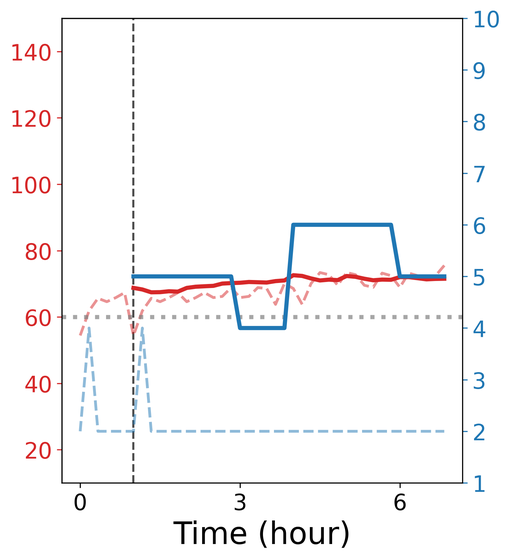
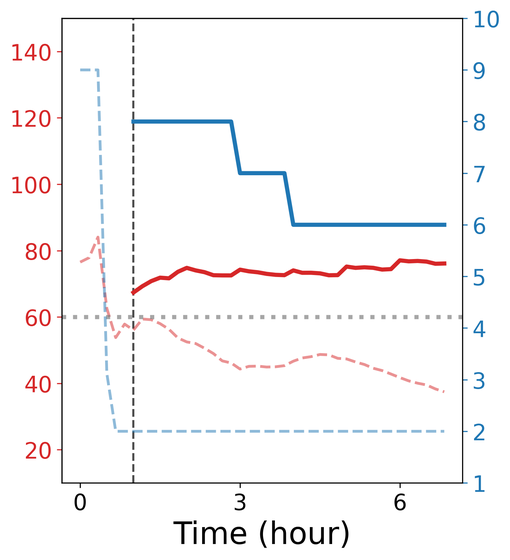
GORMPO diagram: show Impella sample 10655 (premature weaning)
Swap the Impella evaluation plots to sample 10655, where the clinician cut
the P-level 9 -> 2 and blood pressure fell below 60. Update the message,
per-policy P-level badges (stepping up is now green) and cache tags. The
observed lines follow the true timeline, so the first hour no longer repeats.

diff --git a/gormpo/static/diagram/system_diagram.html b/gormpo/static/diagram/system_diagram.html
@@ -216,7 +216,7 @@ body{font-family:var(--sans);color:var(--text);padding:2px;-webkit-font-smoothin
 .imp-badge{display:flex;flex-direction:column;align-items:center;gap:2px;border-radius:8px;padding:4px 6px;font-variant-numeric:tabular-nums;background:var(--card);border:1px solid var(--line)}
 .imp-badge b{white-space:nowrap;font-size:16px;font-weight:700;letter-spacing:-.01em;line-height:1}
 .imp-badge small{font-family:var(--mono);font-size:10px;color:var(--muted)}
-.imp-badge.down b{color:#2b7d70} .imp-badge.up b{color:#c82828} .imp-badge.flat b{color:var(--muted)} .imp-badge.na{visibility:hidden}
+.imp-badge.down b{color:#c82828} .imp-badge.up b{color:#2b7d70} .imp-badge.flat b{color:var(--muted)} .imp-badge.na{visibility:hidden}
 .sel:not(.on) .imp-badge,.sel:not(.on) .imp-goal{filter:grayscale(1);opacity:.6}
 
 /* MuJoCo evaluation rows: MOBILE failure frame | GORMPO at the same moment | normalized return bars */
@@ -462,9 +462,9 @@ html.preload *,html.preload *::before,html.preload *::after{transition:none!impo
       <div class="esec sel acc-brown" tabindex="0" data-group="track" data-id="medical" id="eval-impella">
         <div class="head"><span class="name">Impella weaning</span><span class="ehint">+ click a dataset to see results</span><span class="sub" id="impSub"></span></div>
         <div class="ebody"><div>
-        <div class="imp-goal"><b>✓</b><span>Blood pressure stays above 60: the patient is stable, so the pump should be <b class="dn">weaned</b>.</span></div>
+        <div class="imp-goal"><b style="color:#c82828">!</b><span>The clinician cut the P-level from 9 to 2 and blood pressure fell below the critical threshold. The pump should <b class="dn">not</b> be weaned this fast.</span></div>
         <div class="imp-pair">
-          <div class="fig"><div class="imp-badge" id="impBadgeC"></div><div class="slot imp"><img src="impella_map_cormpo.png?v=3" alt="CORMPO: recommended pump level and predicted blood pressure over six hours in the digital twin"></div><div class="cap">CORMPO</div></div>
+          <div class="fig"><div class="imp-badge" id="impBadgeC"></div><div class="slot imp"><img src="impella_map_cormpo.png?v=5" alt="CORMPO: recommended pump level and predicted blood pressure over six hours in the digital twin"></div><div class="cap">CORMPO</div></div>
           <div class="fig"><div class="imp-badge" id="impBadgeG"></div><div class="slot imp" id="impG"><img id="impImg" src="impella_map_node.png" alt=""><span id="impNone">no MOBILE-based<br>medical policy</span></div><div class="cap" id="impCap">GORMPO</div></div>
         </div>
         <div class="imp-key"><span><i class="k-map"></i>blood pressure</span><span><i class="k-map dash"></i>observed</span><span><i class="k-pl"></i>P-level</span><span><i class="k-pl dash"></i>clinician decision</span><span><i class="k-thr"></i>critical threshold</span></div>
@@ -487,7 +487,7 @@ const D4RL = {
 };
 const EST_NAME = {kde:"KDE", vae:"VAE", flow:"RealNVP", diff:"DDPM", node:"NeuralODE"};
 // Impella: recommended P-level per hour for the patient shown (digital-twin rollouts; MBPO-based GORMPO)
-const IMP = {cormpo:[6,8,8,8,8,8], kde:[5,5,4,6,6,5], vae:[4,4,4,4,4,4], flow:[8,8,8,8,8,7], diff:[5,5,5,5,5,5], node:[6,6,5,4,5,4]};
+const IMP = {cormpo:[4,4,4,4,4,4], kde:[8,8,7,6,6,6], vae:[8,7,6,6,6,6], flow:[8,8,7,6,6,6], diff:[8,8,8,8,8,8], node:[5,4,8,8,7,7]};
 function badge(el, pl){
   el.className = "imp-badge"; el.innerHTML = "";
   if (!pl) { el.classList.add("na"); el.textContent = "–"; return; }
@@ -516,7 +516,7 @@ function setGains(){
   const ek = state.est || "node", none = back === "mobile";
   badge($("impBadgeC"), IMP.cormpo); badge($("impBadgeG"), none ? null : IMP[ek]);
   $("impG").classList.toggle("none", none);
-  $("impImg").src = `impella_map_${ek}.png?v=3`;
+  $("impImg").src = `impella_map_${ek}.png?v=5`;
   $("impImg").alt = `GORMPO-${EST_NAME[ek]}: recommended pump level and predicted blood pressure over six hours`;
   $("impCap").textContent = none ? "GORMPO" : `GORMPO-${EST_NAME[ek]}`;
   $("impSub").textContent = none ? "Blood pressure and P-level over 6 h in the digital twin" : `Blood pressure and P-level over 6 h in the digital twin`;

diff --git a/gormpo/index.html b/gormpo/index.html
@@ -55,7 +55,7 @@
     <a href="#citation">Cite</a>
   </div>
   <figure class="l-screen-inset system-diagram">
-    <iframe id="system-diagram" src="./static/diagram/system_diagram.html?v=42" title="Interactive GORMPO system diagram" scrolling="no"></iframe>
+    <iframe id="system-diagram" src="./static/diagram/system_diagram.html?v=45" title="Interactive GORMPO system diagram" scrolling="no"></iframe>
   </figure>
   <script>
     window.addEventListener("message", e => {
